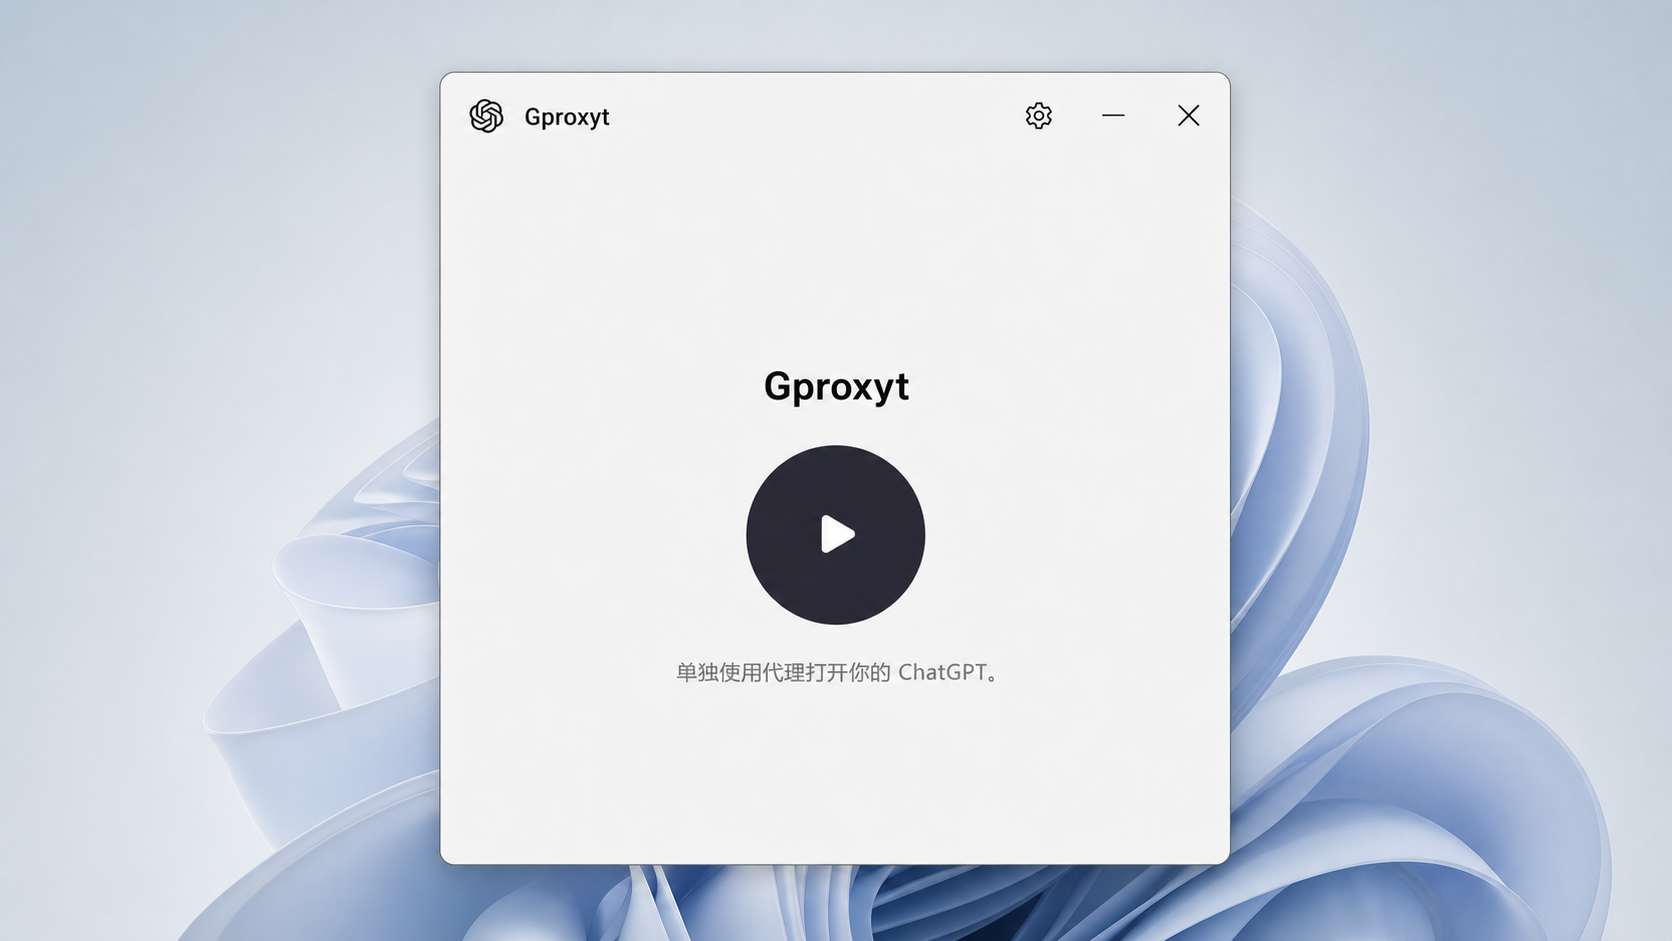
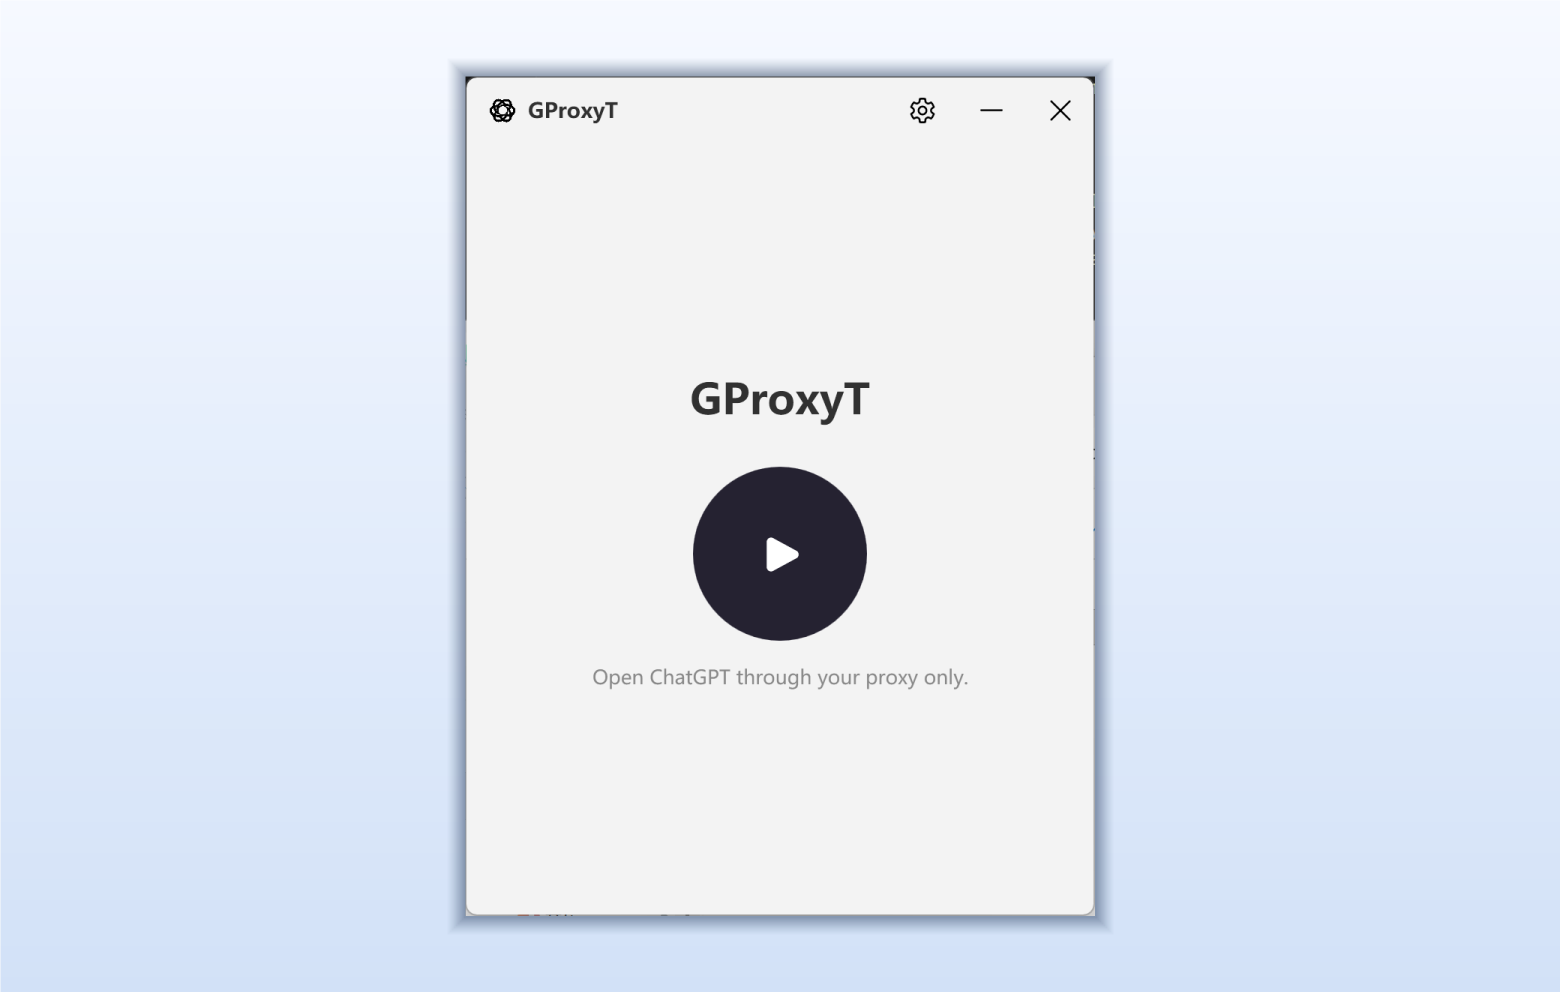
release GProxyT 1.6 with owned branding and 20 languages

diff --git a/src/Gproxyt/MainWindow.xaml b/src/Gproxyt/MainWindow.xaml
@@ -52,7 +52,7 @@
                 <Rectangle x:Name="HeaderBrandLogo"
                            Width="18"
                            Height="18"
-                           Fill="{DynamicResource TextFillColorPrimaryBrush}">
+                           Fill="#FF000000">
                     <Rectangle.OpacityMask>
                         <ImageBrush ImageSource="Assets/gproxyt.png"
                                     Stretch="Uniform" />

diff --git a/src/Gproxyt/AppLocalization.cs b/src/Gproxyt/AppLocalization.cs
@@ -9,15 +9,16 @@ namespace Gproxyt;
 
 public sealed class AppLocalization : INotifyPropertyChanged
 {
-    internal static readonly CultureInfo[] SupportedCultures =
-    [
-        new("ar-SA"), new("de-DE"), new("en-US"), new("es-ES"), new("fr-FR"), new("hi-IN"),
-        new("id-ID"), new("it-IT"), new("ja-JP"), new("ko-KR"), new("nl-NL"), new("pl-PL"),
-        new("pt-BR"), new("ru-RU"), new("th-TH"), new("tr-TR"), new("uk-UA"), new("vi-VN"),
-        new("zh-CN"), new("zh-TW")
-    ];
-
     private static readonly Assembly Assembly = typeof(AppLocalization).Assembly;
+    private const string ResourcePrefix = "Gproxyt.Resources.Strings.";
+    private const string ResourceSuffix = ".json";
+    internal static readonly CultureInfo[] SupportedCultures = Assembly
+        .GetManifestResourceNames()
+        .Where(name => name.StartsWith(ResourcePrefix, StringComparison.Ordinal)
+            && name.EndsWith(ResourceSuffix, StringComparison.Ordinal))
+        .Select(name => new CultureInfo(name[ResourcePrefix.Length..^ResourceSuffix.Length]))
+        .OrderBy(culture => culture.Name, StringComparer.Ordinal)
+        .ToArray();
     private static readonly Dictionary<string, CultureInfo> CulturesByName = SupportedCultures
         .ToDictionary(culture => culture.Name, StringComparer.OrdinalIgnoreCase);
     private static readonly AppLocalization current = Load(CulturesByName["en-US"]);
@@ -96,5 +97,5 @@ public sealed class AppLocalization : INotifyPropertyChanged
     }
 
     private static string ResourceName(CultureInfo culture) =>
-        $"Gproxyt.Resources.Strings.{culture.Name}.json";
+        $"{ResourcePrefix}{culture.Name}{ResourceSuffix}";
 }

diff --git a/tests/Gproxyt.Windows.Tests/AppLocalizationTests.cs b/tests/Gproxyt.Windows.Tests/AppLocalizationTests.cs
@@ -7,6 +7,21 @@ public sealed class AppLocalizationTests
     [Fact]
     public void Loads_every_embedded_translation_into_the_localization_provider()
     {
+        var embeddedCultures = typeof(AppLocalization).Assembly
+            .GetManifestResourceNames()
+            .Where(name => name.StartsWith("Gproxyt.Resources.Strings.", StringComparison.Ordinal)
+                && name.EndsWith(".json", StringComparison.Ordinal))
+            .Select(name => name["Gproxyt.Resources.Strings.".Length..^".json".Length])
+            .Order(StringComparer.Ordinal)
+            .ToArray();
+        var supportedCultures = AppLocalization.SupportedCultures
+            .Select(culture => culture.Name)
+            .Order(StringComparer.Ordinal)
+            .ToArray();
+
+        Assert.Equal(20, supportedCultures.Length);
+        Assert.Equal(embeddedCultures, supportedCultures);
+
         var originalCulture = AppLocalization.Current.Culture;
         try
         {

diff --git a/tests/Gproxyt.Windows.Tests/MainWindowMarkupTests.cs b/tests/Gproxyt.Windows.Tests/MainWindowMarkupTests.cs
@@ -54,7 +54,7 @@ public sealed class MainWindowMarkupTests
 
         Assert.Equal("18", (string?)headerBrandLogo.Attribute("Width"));
         Assert.Equal("18", (string?)headerBrandLogo.Attribute("Height"));
-        Assert.Equal("{DynamicResource TextFillColorPrimaryBrush}", (string?)headerBrandLogo.Attribute("Fill"));
+        Assert.Equal("#FF000000", (string?)headerBrandLogo.Attribute("Fill"));
         Assert.Equal("Assets/gproxyt.png", (string?)logoMask.Attribute("ImageSource"));
         Assert.Equal("GProxyT", (string?)headerBrandTitle.Attribute("Text"));
         Assert.Equal("GProxyT", (string?)contentTitle.Attribute("Text"));

diff --git a/packaging/microsoft-store.md b/packaging/microsoft-store.md
@@ -47,6 +47,21 @@
 
 首次提交包含四张中文桌面截图、完整信任能力说明、开机启动说明、隐私政策和认证测试步骤。商店产品文案维护在 `store-listing.zh-CN.md`，认证人员说明维护在 `certification-notes.zh-CN.md`。
 
+## 1.6.0 重新提交
+
+| 字段 | 值 |
+| --- | --- |
+| Partner Center Submission ID | `1152921505701431722` |
+| 更新日期 | 2026-07-18 |
+| 应用版本 | `1.6.0-stable` |
+| Store 程序包版本 | `1.6.0.0` |
+| 程序包 | `GProxyT_1.6.0.0_x64.msix` |
+| 架构 | x64 |
+| Store 一览语言 | 20 |
+| 程序包语言 | 20 |
+
+本次更新使用 GProxyT 自有品牌图标替换第三方产品图像，应用顶栏使用同一图标的纯黑剪影。Store 一览仅保留 `store-assets/zh-CN/01-main-light.png` 这一张当前版本桌面截图，并复用于 20 个语言页面。
+
 ## 收款与税务
 
 Microsoft Store China Seller ID 为 `95335590`。W-8BEN-E、企业银行转账资料、销售收益和广告收益的 CNY 分配已于 2026-07-17 提交，提交后状态为“挂起的 Microsoft 验证”。Partner Center 最长可能需要 48 小时同步验证结果。